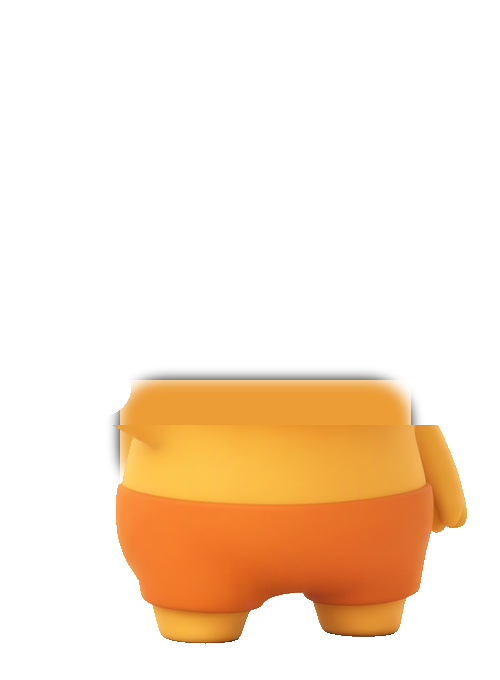
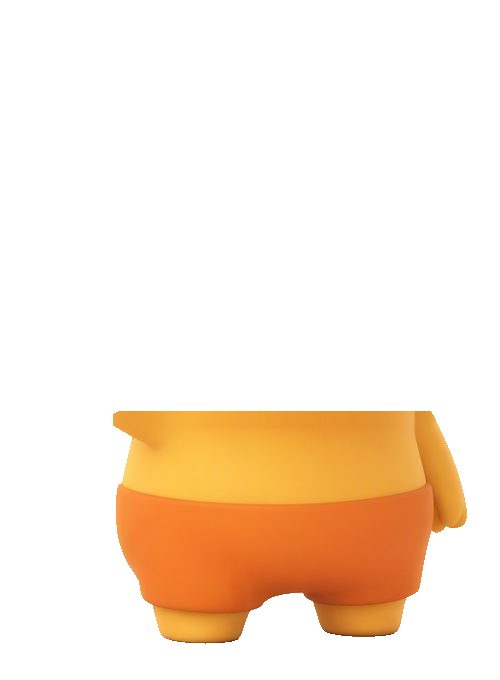
fix: remove visible seams at mascot joints
Nest the waving hand inside the head transform so the cutout tracks the
nod instead of exposing a gap. Replace the hand-shaped wrist backing with
a sleeve-colored cuff limited to the pivot, and drop the black-fringed
neck patch in favor of a body-matched underlay.

Changed region(s): [[0.21, 0.525, 0.87, 0.7103]]

diff --git a/frontend/src/components/MascotStage.tsx b/frontend/src/components/MascotStage.tsx
@@ -1,7 +1,7 @@
 import bodyUrl from '../assets/mascot-body.png'
 import headUrl from '../assets/mascot-head.png'
 import handUrl from '../assets/mascot-hand.png'
-import wristUrl from '../assets/mascot-wrist.png'
+import cuffUrl from '../assets/mascot-cuff.png'
 import lidLeftUrl from '../assets/mascot-lid-left.png'
 import lidRightUrl from '../assets/mascot-lid-right.png'
 
@@ -9,7 +9,7 @@ type MascotStageProps = {
   className?: string
 }
 
-// 定稿图分层骨骼动画：手绕腕关节摆动、眼睛定时眨、头部轻微点头，外观与定稿一致。
+// 定稿图分层骨骼动画：手随头部一起点头、绕腕关节摆动，眼睛定时眨，接缝处用袖口补层遮住。
 export default function MascotStage({ className = '' }: MascotStageProps) {
   return (
     <div className={`relative select-none ${className}`} role="img" aria-label="水豚噜噜">
@@ -30,9 +30,11 @@ export default function MascotStage({ className = '' }: MascotStageProps) {
               draggable={false}
               className="mascot-layer mascot-lid mascot-lid-right"
             />
+            <img src={cuffUrl} alt="" draggable={false} className="mascot-layer" />
+            <div className="mascot-hand">
+              <img src={handUrl} alt="" draggable={false} className="mascot-layer" />
+            </div>
           </div>
-          <img src={wristUrl} alt="" draggable={false} className="mascot-layer" />
-          <img src={handUrl} alt="" draggable={false} className="mascot-layer mascot-hand" />
         </div>
       </div>
     </div>

diff --git a/frontend/src/style.css b/frontend/src/style.css
@@ -61,9 +61,12 @@
 }
 
 .mascot-hand {
+  position: absolute;
+  inset: 0;
   transform-origin: 19.6% 57.06%;
   animation: mascot-wave 1.6s ease-in-out infinite;
   will-change: transform;
+  pointer-events: none;
 }
 
 .mascot-lid {
